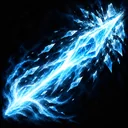
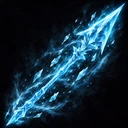
Paso 2 (impl): 33 iconos propios de habilidades 2g (Codex) y los 4 de nodo que faltaban
- Habilidades que usaban el icono de un nodo de talento o de otra habilidad: 13 de la
  Maga, 8 del Guerrero y 12 de la Arquera, generados con Codex en el estilo del set
  (STYLE.md, 3 iconos aprobados como referencia) y revisados con zoom en 3 rondas
  (Rajar rehecho como edición: parecía un «7»). Crudos en IntentoRPG-assets/raw/icons_2g.
- Ninguna habilidad comparte ya icono con otra (Detener el Tiempo = Sello, Bloque =
  Inversión y Bramido = Grito de Guerra estaban repetidos).
- assets/icons256: g_p_coraza, g_p_sed, g_p_fuerza y a_p_punteria ya existían en el arte
  crudo; Disparo Apuntado usa Puntería, como pedía el mockup.

Verificado: npm test en verde (22 en cuarentena); humo boot en verde, 34 pasos y 0 errores.

Claude-Session: https://claude.ai/code/session_01M6sJuchpepVfx9eAnFcAbX

diff --git a/js/skills-guerrero.js b/js/skills-guerrero.js
@@ -65,7 +65,7 @@ export const GUERRERO_SKILLS = [
     line: 'Saltas hasta 8 m y golpeas al caer (150 % a 3 m). Si golpeas, puedes volver a saltar en 2 s (hasta 3 saltos).',
     desc: 'Saltas hasta 8 m al punto elegido (intocable en el aire) y al caer haces 150 % del arma en 3 m. Si golpeas, puedes volver a saltar en 2 s, hasta 3 saltos. Recarga 12 s desde el primero.' },
   // COMBO DE 3: tajo, revés y golpe descendente (320 %) con preparación que desangra
-  { id: 'g_rajar', name: 'Rajar', icon: '🗡', art: 'talents/guerrero-berserker-s7.webp', cat: 'spender', spec: 'berserker', slots: ['rmb', 'k2'], tags: ['spender', 'melee', 'physical'], elem: 'physical',
+  { id: 'g_rajar', name: 'Rajar', icon: '🗡', art: 'skills256/g_rajar.webp', cat: 'spender', spec: 'berserker', slots: ['rmb', 'k2'], tags: ['spender', 'melee', 'physical'], elem: 'physical',
     type: 'combo', req: 14, coef: 1.4, cost: 15, range: 2.5, radius: 2.5, comboWin: 2.5,
     steps: [
       { type: 'cone', coef: 1, angle: 100, radius: 2.5 },                                   // tajo
@@ -82,7 +82,7 @@ export const GUERRERO_SKILLS = [
 
   // ———————————————— KIT DEL GUARDIÁN (Nv10–15) ————————————————
   // POSTURAS que se alternan (sin tiempo global): Muralla (−15 % y +10 % de bloqueo) · Ariete (+15 %)
-  { id: 'g_guardia', name: 'Cambio de Guardia', icon: '🔰', art: 'talents/guerrero-guardian-s17.webp', cat: 'spec', spec: 'guardian', slots: ['k3'], tags: ['spec', 'buff', 'physical'], elem: 'physical',
+  { id: 'g_guardia', name: 'Cambio de Guardia', icon: '🔰', art: 'skills256/g_guardia.webp', cat: 'spec', spec: 'guardian', slots: ['k3'], tags: ['spec', 'buff', 'physical'], elem: 'physical',
     type: 'stance', req: 10, cd: 3,
     stance: { modes: [
       { id: 'muralla', name: 'Muralla', stats: { dr: 15, block: 10 }, color: 0x4a7ad8 },
@@ -91,7 +91,7 @@ export const GUERRERO_SKILLS = [
     line: 'Alternas dos posturas: Muralla (−15 % de daño recibido y +10 % de bloqueo) y Ariete (+15 % de daño). Cambiar: 3 s.',
     desc: 'Dos posturas que se alternan: Muralla (recibes un 15 % menos de daño y +10 % de bloqueo) y Ariete (+15 % de daño). Cambiar no gasta el tiempo global y se recarga en 3 s.' },
   // avance LENTO e imparable que arrastra; al llegar provoca 3 s a los que golpea
-  { id: 'g_carga_escudo', name: 'Carga de Escudo', icon: '🐂', art: 'talents/guerrero-guardian-s13.webp', cat: 'movement', spec: 'guardian', slots: ['k1'], tags: ['movement', 'melee', 'taunt', 'physical'], elem: 'physical',
+  { id: 'g_carga_escudo', name: 'Carga de Escudo', icon: '🐂', art: 'skills256/g_carga_escudo.webp', cat: 'movement', spec: 'guardian', slots: ['k1'], tags: ['movement', 'melee', 'taunt', 'physical'], elem: 'physical',
     type: 'dash', req: 12, coef: 1.3, cd: 10, range: 8, radius: 2.5, dashT: 1, unstoppable: true, drag: true, taunt: 3,
     line: 'Avanzas 8 m despacio e imparable (1 s): arrastras a los que encuentras y, al llegar, te atacan a ti 3 s.',
     desc: 'Avance lento e imparable: 8 m en 1 s con el escudo por delante. Arrastras a los que encuentras y, al llegar, golpeas en 2,5 m (130 % del arma) y te atacan a ti 3 s. Recarga 10 s.' },
@@ -102,7 +102,7 @@ export const GUERRERO_SKILLS = [
     line: 'Te preparas 0,4 s y golpeas el suelo: 220 % a 5 m. Plantado (1 s sin moverte), suelta 2 réplicas al 50 %.',
     desc: 'Te preparas 0,4 s y golpeas el suelo: 220 % del arma a todo lo que hay a 5 m. Si estás plantado (1 s sin moverte), suelta 2 réplicas al 50 %. Cuesta 30 de Furia.' },
   // te CLAVAS: no te mueves; −40 % a ti y a tus aliados a 6 m; provocas a 10 m cada segundo
-  { id: 'g_u_ciudadela', name: 'Ciudadela', icon: '🏰', art: 'talents/guerrero-guardian-x3.webp', cat: 'ultimate', spec: 'guardian', slots: ['k4'], tags: ['ultimate', 'aura', 'buff', 'ally', 'taunt', 'physical'], elem: 'physical',
+  { id: 'g_u_ciudadela', name: 'Ciudadela', icon: '🏰', art: 'skills256/g_u_ciudadela.webp', cat: 'ultimate', spec: 'guardian', slots: ['k4'], tags: ['ultimate', 'aura', 'buff', 'ally', 'taunt', 'physical'], elem: 'physical',
     behavior: 'g_u_ciudadela', req: 15, cd: 90, cdFloor: 0.7, dur: 8, radius: 6, buff: { dr: 40 }, moveMul: 0, plant: true,
     pulse: { every: 1, radius: 10, taunt: 1.5 },
     line: 'Clavas el escudo 8 s y no te mueves: tú y tus aliados a 6 m reciben −40 %; los enemigos a 10 m te atacan a ti.',
@@ -116,7 +116,7 @@ export const GUERRERO_SKILLS = [
     line: 'Te preparas 0,3 s y lanzas un martillo de luz (120 % a 3 m) que marca 8 s. Tu siguiente principal lo detona: +100 %.',
     desc: 'Te preparas 0,3 s y lanzas un martillo de luz a 12 m: 120 % del arma a todos en 3 m y los marca 8 s. Tu siguiente habilidad principal detona la marca: +100 % a ese enemigo. Cuesta 20 de Furia; recarga 8 s.' },
   // destello rápido que deja un SENDERO sagrado (daña y cura a tus aliados)
-  { id: 'g_sendero', name: 'Sendero de Luz', icon: '✨', art: 'talents/guerrero-cruzado-s14.webp', cat: 'movement', spec: 'cruzado', slots: ['k1'], tags: ['movement', 'zone', 'holy'], elem: 'holy',
+  { id: 'g_sendero', name: 'Sendero de Luz', icon: '✨', art: 'skills256/g_sendero.webp', cat: 'movement', spec: 'cruzado', slots: ['k1'], tags: ['movement', 'zone', 'holy'], elem: 'holy',
     type: 'blink', req: 12, coef: 1.0, cd: 10, range: 8,
     trail: { field: 'zona', dur: 4, width: 1.5, coef: 0.3, heal: 2 },
     line: 'Destello de 8 m: dejas 4 s un sendero sagrado que no se suma: daña un 30 % y cura a tus aliados un 2 % por segundo.',
@@ -138,7 +138,7 @@ export const GUERRERO_SKILLS = [
   // ———————————————— ACTIVAS DE TALENTO (kind 'talent', solo ranura 2; D29) ————————————————
   // de clase: c11A (Nv21), c17A (Nv27) y c22A (Nv31). Sus comportamientos (g_t_aliento,
   // g_t_intervencion) viven en js/powers-guerrero.js (KT)
-  { id: 'g_t_aliento', name: 'Segundo Aliento', icon: '❤🩹', art: 'talents/guerrero-clase-c2.webp', kind: 'talent', cat: 'defense', slots: ['k2'], tags: ['defense', 'heal', 'physical'], elem: 'physical',
+  { id: 'g_t_aliento', name: 'Segundo Aliento', icon: '❤🩹', art: 'skills256/g_t_aliento.webp', kind: 'talent', cat: 'defense', slots: ['k2'], tags: ['defense', 'heal', 'physical'], elem: 'physical',
     behavior: 'g_t_aliento', req: 21, cd: 30, color: 0xff5a4a,
     line: 'Gastas toda tu Furia y te curas un 1 % de la vida por cada 3 de Furia (100 de Furia: un 33 %).',
     desc: 'Gastas toda tu Furia y te curas un 1 % de la vida por cada 3 de Furia gastada (100 de Furia: un 33 %). Recarga 30 s.' },
@@ -146,14 +146,14 @@ export const GUERRERO_SKILLS = [
     type: 'buff', req: 27, cd: 20, dur: 8, buff: { dmgPct: 10 }, allyRadius: 15, gen: 30,
     line: 'Ganas 30 de Furia y tu grupo a 15 m hace +10 % de daño durante 8 s.',
     desc: 'Rugido de batalla: ganas 30 de Furia al instante y tu grupo a 15 m hace +10 % de daño durante 8 s. Sin coste; recarga 20 s.' },
-  { id: 'g_t_intervencion', name: 'Intervención', icon: '🤝', art: 'talents/guerrero-clase-c3.webp', kind: 'talent', cat: 'utility', slots: ['k2'], tags: ['utility', 'ally', 'shield', 'physical'], elem: 'physical',
+  { id: 'g_t_intervencion', name: 'Intervención', icon: '🤝', art: 'skills256/g_t_intervencion.webp', kind: 'talent', cat: 'utility', slots: ['k2'], tags: ['utility', 'ally', 'shield', 'physical'], elem: 'physical',
     type: 'leap', behavior: 'g_t_intervencion', req: 31, cd: 20, range: 8, airT: 0.4, lockT: 0.4, shieldPct: 15, dur: 6, color: 0x88bbff,
     line: 'Saltas junto a un aliado (o 8 m hacia la mira) y los dos ganan un escudo del 15 % de tu vida durante 6 s.',
     desc: 'Saltas junto a un aliado (o 8 m hacia la mira) y los dos ganan un escudo del 15 % de tu vida máxima durante 6 s. Recarga 20 s.' },
   // de los árboles héroe (fila 2 del Paragon, Nv72): Titán t4A, Gladiador l4A y Caudillo u4A.
   // Lo que enlaza con su mecánica (Golpe de Titán, Rival, Pendón) lo leen los poderes del
   // árbol en ③ afterCast con el id de la habilidad
-  { id: 'g_h_bramido', name: 'Bramido de Titán', icon: '📯', art: 'skills256/grito_guerra.webp', kind: 'talent', cat: 'utility', slots: ['k2'], tags: ['utility', 'shout', 'cc', 'physical'], elem: 'physical',
+  { id: 'g_h_bramido', name: 'Bramido de Titán', icon: '📯', art: 'skills256/g_h_bramido.webp', kind: 'talent', cat: 'utility', slots: ['k2'], tags: ['utility', 'shout', 'cc', 'physical'], elem: 'physical',
     behavior: 'g_h_bramido', req: 72, cd: 30, radius: 6, stun: 1.5, bossStun: 1,
     line: 'Bramas a 6 m: aturdes 1,5 s (a los jefes, 30 de Quebranto) y tu siguiente principal es un Golpe de Titán.',
     desc: 'Bramas a 6 m: aturdes 1,5 s a los enemigos (a los jefes, 30 de Quebranto) y tu siguiente habilidad principal es un Golpe de Titán. Recarga 30 s.' },

diff --git a/js/skills-arquera.js b/js/skills-arquera.js
@@ -127,7 +127,7 @@ export const ARQUERA_SKILLS = [
 
   // ---------------- ACTIVAS DE TALENTO (solo la ranura 2) ----------------
   // Camuflaje (c11A): el comportamiento y el crítico al salir son del árbol (powers-arquera.js)
-  { id: 'a_t_camuflaje', name: 'Camuflaje', icon: '🍃', kind: 'talent', cat: 'defense', slots: ['k2'], tags: ['defense', 'physical'], elem: 'physical',
+  { id: 'a_t_camuflaje', art: 'skills256/a_t_camuflaje.webp', name: 'Camuflaje', icon: '🍃', kind: 'talent', cat: 'defense', slots: ['k2'], tags: ['defense', 'physical'], elem: 'physical',
     behavior: 'a_t_camuflaje', req: 21, cd: 20, dur: 4, color: 0x8fbf7a,
     line: 'Te vuelves invisible 4 s, los enemigos te pierden y Paso Veloz se recarga; tu primer disparo al salir es crítico.',
     desc: 'Te vuelves invisible 4 s: los enemigos te pierden, Paso Veloz se recarga y tu primer disparo al salir es crítico seguro. Se recarga en 20 s.' },
@@ -137,22 +137,22 @@ export const ARQUERA_SKILLS = [
     line: 'Durante 6 s: +30 % de velocidad, +15 % de velocidad de ataque e inmunidad a las ralentizaciones.',
     desc: 'Durante 6 s: +30 % de velocidad de movimiento, +15 % de velocidad de ataque e inmunidad a las ralentizaciones. Se recarga en 16 s.' },
   // Flecha Bengala (c22A): dentro, Debilidad (+15 % de daño recibido) y −15 % de daño de los enemigos
-  { id: 'a_t_bengala', name: 'Flecha Bengala', icon: '🎆', kind: 'talent', cat: 'utility', slots: ['k2'], tags: ['utility', 'zone', 'ally', 'physical'], elem: 'physical',
+  { id: 'a_t_bengala', art: 'skills256/a_t_bengala.webp', name: 'Flecha Bengala', icon: '🎆', kind: 'talent', cat: 'utility', slots: ['k2'], tags: ['utility', 'zone', 'ally', 'physical'], elem: 'physical',
     behavior: 'a_bengala', at: 'target', req: 31, cd: 20, radius: 10, dur: 10, range: 12, weakPct: 15, weakenPct: 15, color: 0xffcc55,
     line: 'Una bengala de 10 m durante 10 s: dentro, los enemigos reciben un 15 % más de daño del grupo y pegan un 15 % menos.',
     desc: 'Lanzas una bengala a hasta 12 m que ilumina 10 m durante 10 s: los enemigos dentro reciben un 15 % más de daño de todo el grupo y pegan un 15 % menos. Se recarga en 20 s.' },
   // Torbellino (árbol héroe Errante del Viento, q4A): las 3 Ráfagas las da su poder de árbol
-  { id: 'a_h_torbellino', art: 'talents/arquera-tiradora-s15.webp', name: 'Torbellino', icon: '🌀', kind: 'talent', cat: 'utility', slots: ['k2'], tags: ['utility', 'area', 'cc', 'physical'], elem: 'physical',
+  { id: 'a_h_torbellino', art: 'skills256/a_h_torbellino.webp', name: 'Torbellino', icon: '🌀', kind: 'talent', cat: 'utility', slots: ['k2'], tags: ['utility', 'area', 'cc', 'physical'], elem: 'physical',
     behavior: 'a_torbellino', req: 72, cd: 40, radius: 4, stun: 1.5, shake: 0.2, color: 0xbfe8ff,
     line: 'Un torbellino de 4 m levanta 1,5 s a los enemigos y te da 3 Ráfagas.',
     desc: 'Un torbellino de 4 m a tu alrededor levanta 1,5 s a los enemigos (a un jefe le llena Quebranto) y te da 3 Ráfagas. Se recarga en 40 s.' },
   // Desborde de Puntas (árbol héroe Carcaj Encantado, w4A): estado de 4 disparos que lee su poder de árbol
-  { id: 'a_h_puntas', art: 'talents/arquera-clase-c9.webp', name: 'Desborde de Puntas', icon: '✴', kind: 'talent', cat: 'utility', slots: ['k2'], tags: ['utility', 'buff', 'physical'], elem: 'physical',
+  { id: 'a_h_puntas', art: 'skills256/a_h_puntas.webp', name: 'Desborde de Puntas', icon: '✴', kind: 'talent', cat: 'utility', slots: ['k2'], tags: ['utility', 'buff', 'physical'], elem: 'physical',
     type: 'buff', req: 72, cd: 20, dur: 10, count: 4, buff: {}, color: 0xffd27a,
     line: 'Tus 4 siguientes disparos llevan las tres puntas encantadas a la vez, al 50 % (sin Trenza ni Punta Repartida).',
     desc: 'Tus 4 siguientes disparos (en 10 s) llevan las tres puntas encantadas a la vez, al 50 %, sin Trenza de Puntas ni Punta Repartida. Se recarga en 20 s.' },
   // Llamada del Halcón (árbol héroe Halconera, y4A)
-  { id: 'a_h_halcon', art: 'talents/arquera-clase-c4.webp', name: 'Llamada del Halcón', icon: '🦅', kind: 'talent', cat: 'utility', slots: ['k2'], tags: ['utility', 'cc', 'physical'], elem: 'physical',
+  { id: 'a_h_halcon', art: 'skills256/a_h_halcon.webp', name: 'Llamada del Halcón', icon: '🦅', kind: 'talent', cat: 'utility', slots: ['k2'], tags: ['utility', 'cc', 'physical'], elem: 'physical',
     behavior: 'a_halcon', req: 72, coef: 0.4, cd: 30, range: 15, dur: 6, every: 0.5, blindPct: 30, staggerOnce: 30, color: 0xd8b070,
     line: 'El halcón ataca a tu blanco 6 s sin parar (40 % cada 0,5 s), lo deja ciego y le llena 30 de Quebranto.',
     desc: 'Tu halcón ataca a tu blanco durante 6 s (40 % del arma cada 0,5 s): lo deja ciego (pega un 30 % menos) y a un jefe le llena 30 de Quebranto. Si muere, busca al enemigo más cercano. Se recarga en 30 s.' },

diff --git a/js/skills-maga.js b/js/skills-maga.js
@@ -111,29 +111,29 @@ export const MAGA_SKILLS = [
     desc: 'Definitiva: mantén la tecla para canalizar 3 s un rayo arcano gigante contra un objetivo (120 % cada 0,5 s) sin moverte; cada golpe te da 1 Carga Arcana. Eres imparable mientras dura. Enfriamiento 50 s.' },
 
   // ---------------- ACTIVAS DE TALENTO (ranura 2; las concede su nodo) ----------------
-  { id: 'm_t_bloque', name: 'Bloque de Hielo', icon: '🧊', kind: 'talent', cat: 'defense', slots: ['k2'], tags: ['defense', 'frost'], elem: 'frost',
+  { id: 'm_t_bloque', art: 'skills256/m_t_bloque.webp', name: 'Bloque de Hielo', icon: '🧊', kind: 'talent', cat: 'defense', slots: ['k2'], tags: ['defense', 'frost'], elem: 'frost',
     behavior: 'm_t_bloque', req: 21, cd: 90, dur: 4, color: 0x9fe3ff,
     line: 'Te encierras en hielo 4 s: no recibes daño, pero no te mueves.',
     desc: 'Te encierras en hielo: eres inmune durante 4 s, pero no puedes moverte ni atacar (la esquiva lo rompe antes). Enfriamiento 90 s.' },
-  { id: 'm_t_inversion', name: 'Inversión del Tiempo', icon: '⏳', kind: 'talent', cat: 'defense', slots: ['k2'], tags: ['defense', 'arcane'], elem: 'arcane',
+  { id: 'm_t_inversion', art: 'skills256/m_t_inversion.webp', name: 'Inversión del Tiempo', icon: '⏳', kind: 'talent', cat: 'defense', slots: ['k2'], tags: ['defense', 'arcane'], elem: 'arcane',
     behavior: 'm_t_inversion', req: 27, cd: 60, color: 0xd7c2ff,
     line: 'Vuelves a la vida y al lugar que tenías hace 5 s.',
     desc: 'Vuelves a la vida y a la posición que tenías hace 5 s (el tiempo se graba desde que conoces esta habilidad). Enfriamiento 60 s.' },
-  { id: 'm_t_contrahechizo', name: 'Contrahechizo', icon: '🚫', kind: 'talent', cat: 'utility', slots: ['k2'], tags: ['utility', 'interrupt', 'arcane'], elem: 'arcane',
+  { id: 'm_t_contrahechizo', art: 'skills256/m_t_contrahechizo.webp', name: 'Contrahechizo', icon: '🚫', kind: 'talent', cat: 'utility', slots: ['k2'], tags: ['utility', 'interrupt', 'arcane'], elem: 'arcane',
     behavior: 'm_t_contrahechizo', req: 31, cd: 18, range: 12, color: 0xcc88ff,
     line: 'Corta el hechizo de un enemigo a 12 m y lo deja mudo 3 s.',
     desc: 'Cortas el hechizo de un enemigo a 12 m y lo dejas mudo 3 s; a los jefes les llenas la barra de Quebranto. Enfriamiento 18 s.' },
-  { id: 'm_h_detener', art: 'talents/maga-arcanista-s9.webp', name: 'Detener el Tiempo', icon: '⌛', kind: 'talent', cat: 'utility', slots: ['k2'], tags: ['utility', 'area', 'cc', 'arcane'], elem: 'arcane',
+  { id: 'm_h_detener', art: 'skills256/m_h_detener.webp', name: 'Detener el Tiempo', icon: '⌛', kind: 'talent', cat: 'utility', slots: ['k2'], tags: ['utility', 'area', 'cc', 'arcane'], elem: 'arcane',
     behavior: 'm_h_detener', req: 72, cd: 75, radius: 8, dur: 3, color: 0xd7c2ff,
     line: 'Paras el tiempo 3 s a 8 m: los enemigos quedan quietos.',
     desc: 'Paras el tiempo a tu alrededor: los enemigos a 8 m quedan quietos 3 s (los jefes, no: se les llena la barra de Quebranto). Enfriamiento 75 s.' },
   // las 3 runas las escribe el poder de las Runas (Escriba Rúnica, e0) en ③ afterCast, sobre
   // cast.runeSpots (lo deja este comportamiento)
-  { id: 'm_h_palabra', art: 'talents/maga-arcanista-s8.webp', name: 'Palabra de Poder', icon: '📜', kind: 'talent', cat: 'utility', slots: ['k2'], tags: ['utility', 'arcane'], elem: 'arcane',
+  { id: 'm_h_palabra', art: 'skills256/m_h_palabra.webp', name: 'Palabra de Poder', icon: '📜', kind: 'talent', cat: 'utility', slots: ['k2'], tags: ['utility', 'arcane'], elem: 'arcane',
     behavior: 'm_h_palabra', req: 72, cd: 40, runes: 3, radius: 1.8, color: 0xe0b0ff,
     line: 'Escribes al instante 3 runas a tu alrededor: formas un Sello donde estás.',
     desc: 'Escribes al instante 3 runas a 1,8 m de ti: forman un Sello donde estás. Enfriamiento 40 s.' },
-  { id: 'm_h_constructo', art: 'talents/maga-clase-c15.webp', name: 'Llamar Constructo', icon: '🗿', kind: 'talent', cat: 'defense', slots: ['k2'], tags: ['defense', 'summon', 'taunt', 'arcane'], elem: 'arcane',
+  { id: 'm_h_constructo', art: 'skills256/m_h_constructo.webp', name: 'Llamar Constructo', icon: '🗿', kind: 'talent', cat: 'defense', slots: ['k2'], tags: ['defense', 'summon', 'taunt', 'arcane'], elem: 'arcane',
     behavior: 'm_h_constructo', req: 74, cd: 45, dur: 10, radius: 8, range: 6, hpPct: 50, color: 0x9f8cff,
     line: 'Un Constructo aparece 10 s y los enemigos a 8 m lo atacan a él.',
     desc: 'Un Constructo de maná aparece hacia la mira (hasta 6 m) durante 10 s y obliga a los enemigos a 8 m de él a atacarlo; aguanta la mitad de tu vida máxima. Enfriamiento 45 s.' },
